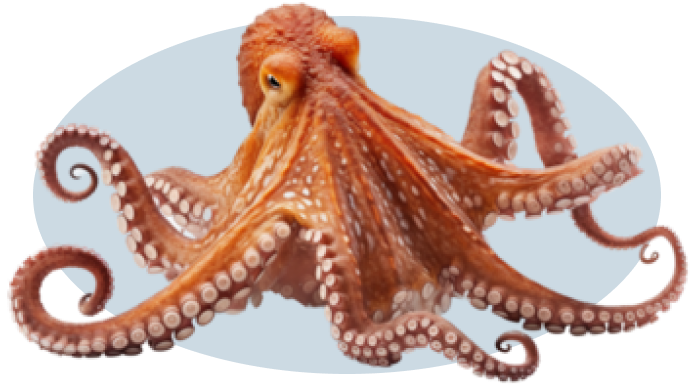
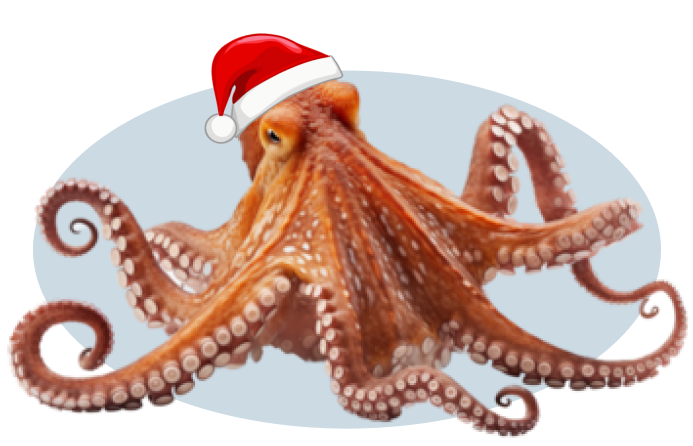
adicionando novos assets

diff --git a/components/ImagePolvo.vue b/components/ImagePolvo.vue
@@ -1,45 +1,26 @@
 <script setup>
     import { computed } from 'vue'; 
 
-    import Polvo from '@/assets/img/polvo.png';
-    import PolvoDefault from '@/assets/img/polvo-default.png';
-    import PolvoBruxa from '@/assets/img/polvo-bruxa.png';
-    import PolvoCowboy from '@/assets/img/polvo-cowboy.png';
-    import PolvoMarinheiro from '@/assets/img/polvo-marinheiro.png';
-    import PolvoNerd from '@/assets/img/polvo-nerd.png';
-    import PolvoNiver from '@/assets/img/polvo-niver.png';
-    import PolvoPirata from '@/assets/img/polvo-pirata.png';
-    import PolvoRealista from '@/assets/img/polvo-realista.png';
     import PolvoNoel from '@/assets/img/polvo-noel.png';
-    import PolvoFred from '@/assets/img/polvo-fred.png';
-    import PolvoAbobora from '@/assets/img/polvo-abobora.png';
-    import PolvoFrank from '@/assets/img/polvo-frank.png';
+    import PolvoGrinch from '@/assets/img/polvo-grinch.png';
+    import PolvoRena from '@/assets/img/polvo-rena.png';
+    import PolvoRealista from '@/assets/img/polvo-realista.png';
 
     /**
      * Não utilizado durante o natal
      */
     const selectRandomImage = computed(() => {
-        let selectedImage = Polvo;
+        let selectedImage = PolvoNoel;
 
         const images = [
-            PolvoDefault,
-            PolvoBruxa,
-            PolvoCowboy,
-            PolvoMarinheiro,
-            PolvoNerd,
-            PolvoNiver,
-            PolvoPirata,
-            PolvoRealista,
+            PolvoGrinch,
             PolvoNoel,
-            PolvoFred,
-            PolvoAbobora,
-            PolvoFrank,
+            PolvoRena,
+            PolvoRealista,
         ];
 
-        if (Math.random() < 0.4) {
-            const indexImage = Math.floor(Math.random() * images.length);
-            selectedImage =  images[indexImage];
-        }
+        const indexImage = Math.floor(Math.random() * images.length);
+        selectedImage =  images[indexImage];
 
         return selectedImage;
     });
